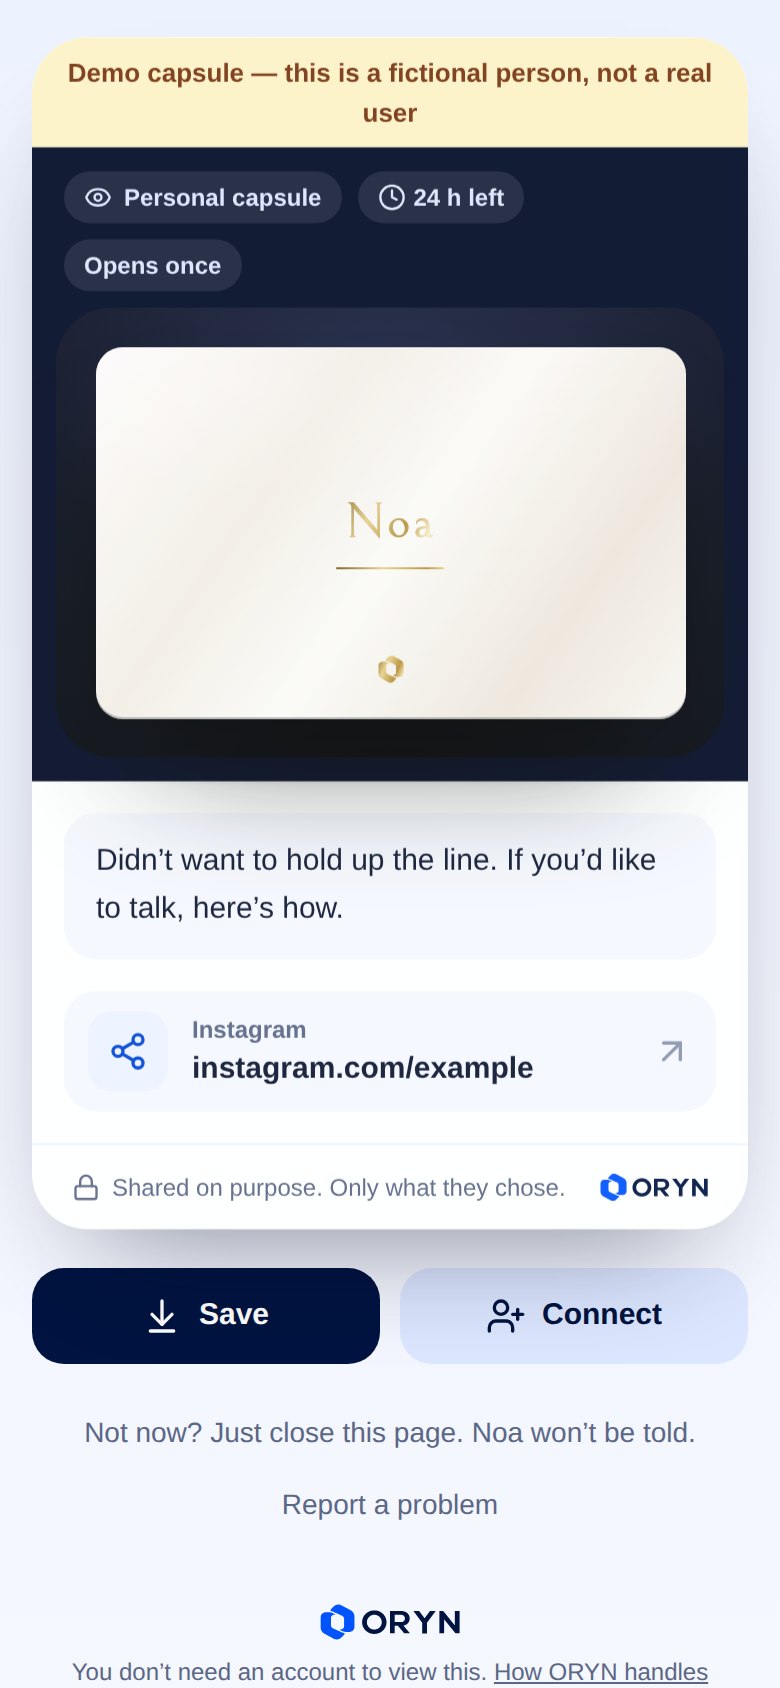
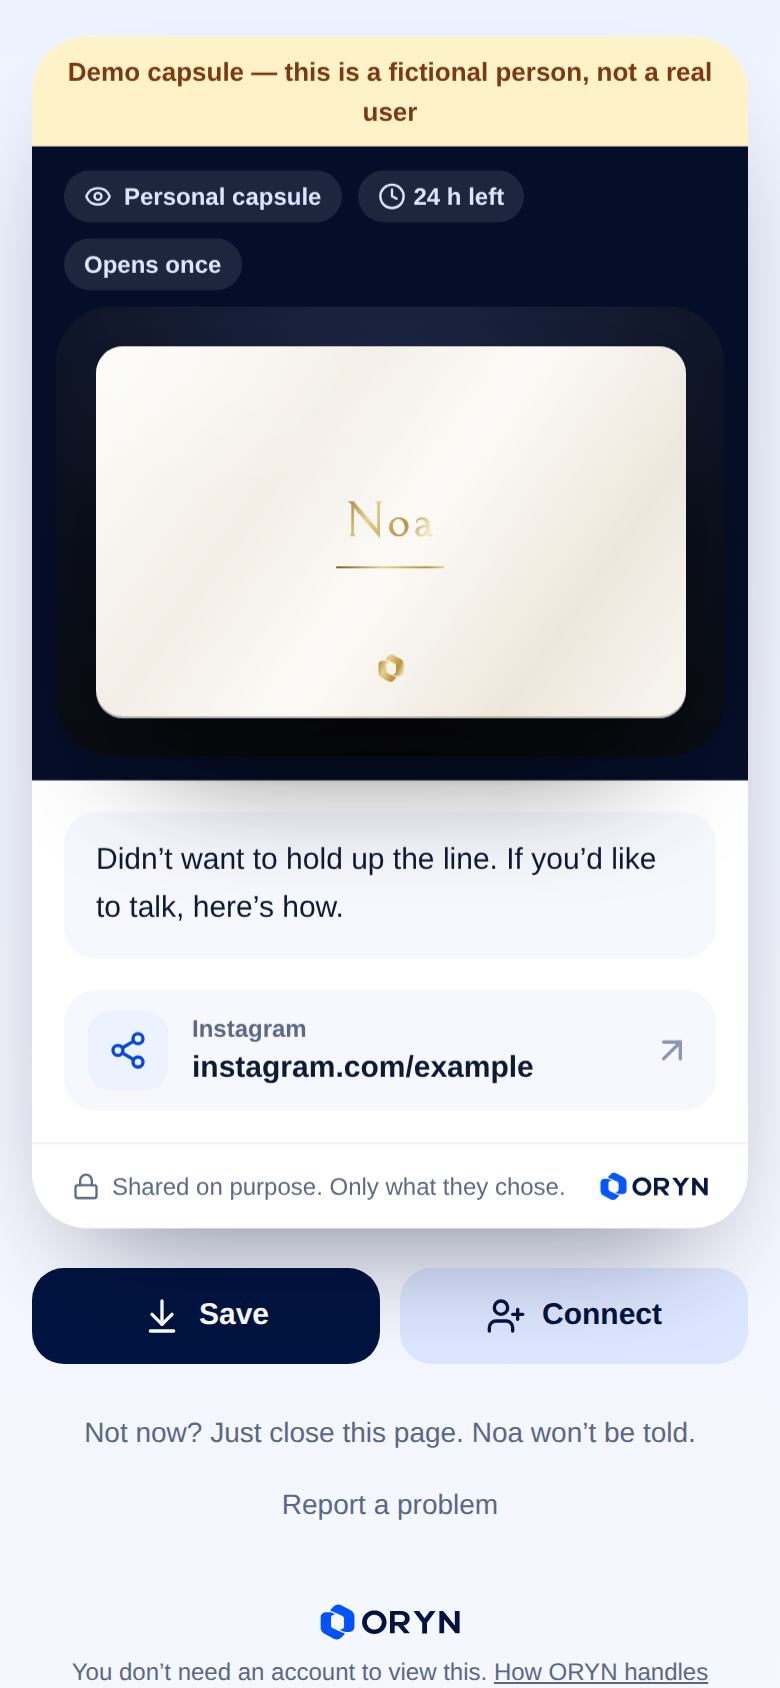
App entry screen: welcome, sign-in and sign-up on a dark stage with a fan of luxury cards
- /welcome is the installed app's start screen (manifest start_url); signed-in people go to Today
- sign-in and sign-up share the same shell with a bottom sheet for the form
- pure CSS motion (deal-in, float, glow), off under reduced motion; sample cards use fictional names
- E2E: welcome routes, no horizontal overflow, start_url (23/23)

Claude-Session: https://claude.ai/code/session_01TnBwNdb6CVCdpsNi2rZgTz

diff --git a/app/globals.css b/app/globals.css
@@ -86,3 +86,23 @@
 }
 @keyframes lc-shimmer { 0%, 100% { background-position: 10% 0 } 50% { background-position: 90% 0 } }
 @media (prefers-reduced-motion: reduce) { .lc-foil { animation: none !important; } .lc-tilt, .lc-flipper { transition: none; } }
+
+/* ── Entry screen (welcome / sign in / sign up) ─────────────────────────────── */
+.entry-stage { background: radial-gradient(120% 80% at 50% 0%, #0b1f5c 0%, #020a24 55%, #01040f 100%); }
+.entry-glow { position: absolute; inset: -20% -20% auto; height: 70%; background: radial-gradient(50% 50% at 50% 50%, rgba(216,181,106,0.22), transparent 70%); filter: blur(10px); animation: entry-breathe 6s ease-in-out infinite; }
+.entry-logo { animation: entry-in .9s cubic-bezier(.2,.8,.2,1) both; }
+.entry-fan { position: absolute; left: 50%; top: 50%; width: min(60vw, 280px); aspect-ratio: 1.586; transform: translate(-50%, -50%); perspective: 1400px; }
+.entry-fan-compact { width: min(48vw, 210px); }
+.entry-card { position: absolute; inset: 0; transform-origin: 50% 130%;
+  --rot: calc((var(--i) - 1) * 9deg); --dx: calc((var(--i) - 1) * 15%); --dy: calc((var(--i) - 1) * (var(--i) - 1) * 7%);
+  transform: translate(var(--dx), var(--dy)) rotate(var(--rot)); z-index: 1;
+  animation: entry-deal 1.1s cubic-bezier(.2,.8,.2,1) both; animation-delay: calc(0.15s + var(--i) * 0.12s); }
+.entry-card:nth-child(2) { z-index: 3; }
+.entry-card-inner { filter: drop-shadow(0 30px 40px rgba(0,0,0,0.55)); animation: entry-float 7s ease-in-out infinite; animation-delay: calc(var(--i) * -2.3s); }
+.entry-sheet { animation: entry-sheet .7s cubic-bezier(.2,.8,.2,1) .35s both; }
+@keyframes entry-deal { from { opacity: 0; transform: translate(0, 18%) rotate(0deg) scale(.85); } to { opacity: 1; transform: translate(var(--dx), var(--dy)) rotate(var(--rot)); } }
+@keyframes entry-float { 0%, 100% { transform: translateY(0) rotateX(0) rotateY(0); } 50% { transform: translateY(-8px) rotateX(4deg) rotateY(-6deg); } }
+@keyframes entry-breathe { 0%, 100% { opacity: .7; } 50% { opacity: 1; } }
+@keyframes entry-in { from { opacity: 0; transform: translateY(-8px); } to { opacity: 1; transform: none; } }
+@keyframes entry-sheet { from { opacity: 0; transform: translateY(40px); } to { opacity: 1; transform: none; } }
+@media (prefers-reduced-motion: reduce) { .entry-glow, .entry-card, .entry-card-inner, .entry-sheet, .entry-logo { animation: none !important; } }

diff --git a/components/EntryShell.tsx b/components/EntryShell.tsx
@@ -1,0 +1,40 @@
+import type { CSSProperties, ReactNode } from 'react'
+import { CardFace } from './LuxuryCard'
+import { Logo } from './Logo'
+import { DEFAULT_DESIGN, PRESETS, type CardDesign } from '@/lib/card-design'
+
+// Sample cards only: fictional names, never real people.
+const FAN: { preset: string; name: string; headline: string; base?: string }[] = [
+  { preset: 'pearl', name: 'Maya Stone', headline: 'Designer' },
+  { preset: 'black', name: 'Noa Adler', headline: 'Product lead' },
+  { preset: 'navy', name: 'Eli Ward', headline: 'Founder' },
+]
+const design = (id: string): CardDesign => ({ ...DEFAULT_DESIGN, ...PRESETS.find((p) => p.id === id)!.design })
+
+/**
+ * The app's entry screen: a dark stage with a fan of luxury cards drifting in, and a bottom sheet for the
+ * actions — the first thing someone sees when they open the installed app. Pure CSS motion (respects
+ * reduced motion); renders on the server.
+ */
+export function EntryShell({ children, compact = false }: { children: ReactNode; compact?: boolean }) {
+  return (
+    <main id="main" className="entry-stage relative flex min-h-dvh flex-col overflow-hidden text-white">
+      <div aria-hidden="true" className="entry-glow" />
+      <header className="relative z-10 flex justify-center pt-[max(env(safe-area-inset-top),1.25rem)]">
+        <span className="entry-logo"><Logo tone="white" height={compact ? 24 : 30} /></span>
+      </header>
+      <div aria-hidden="true" className={`relative z-0 mx-auto w-full max-w-md flex-1 ${compact ? 'min-h-[180px]' : 'min-h-[300px]'}`}>
+        <div className={`entry-fan ${compact ? 'entry-fan-compact' : ''}`}>
+          {FAN.map((c, i) => (
+            <div key={c.preset} className="entry-card" style={{ '--i': i } as CSSProperties}>
+              <div className="entry-card-inner"><CardFace design={design(c.preset)} identity={{ displayName: c.name, headline: c.headline, company: null, avatarUrl: null }} /></div>
+            </div>
+          ))}
+        </div>
+      </div>
+      <section className="entry-sheet relative z-10 mx-auto w-full max-w-md rounded-t-[2rem] bg-white px-5 pb-[max(env(safe-area-inset-bottom),1.5rem)] pt-6 text-ink shadow-[0_-20px_60px_-20px_rgba(0,0,0,0.6)] sm:mb-8 sm:rounded-[2rem]">
+        {children}
+      </section>
+    </main>
+  )
+}

diff --git a/app/signin/page.tsx b/app/signin/page.tsx
@@ -3,7 +3,7 @@ import { redirect } from 'next/navigation'
 import { currentUser } from '@/lib/server/request'
 import { signInAction } from '@/app/actions/auth'
 import { ActionForm, Submit } from '@/components/Forms'
-import { Logo } from '@/components/Logo'
+import { EntryShell } from '@/components/EntryShell'
 
 export const metadata = { title: 'Sign in' }
 
@@ -12,9 +12,8 @@ export default async function SignIn({ searchParams }: { searchParams: Promise<{
   if (await currentUser()) redirect('/today')
   const demo = process.env.NODE_ENV !== 'production' || process.env.ORYN_SEED_DEMO === 'true'
   return (
-    <main id="main" className="mx-auto flex min-h-dvh max-w-sm flex-col justify-center px-4 py-10">
-      <Link href="/" className="mb-8"><Logo /></Link>
-      <h1 className="h1">Welcome back</h1>
+    <EntryShell compact>
+      <h1 className="text-2xl font-bold text-navy-900">Welcome back</h1>
       <ActionForm action={signInAction} className="mt-6 space-y-4">
         <input type="hidden" name="next" value={next} />
         <div><label className="label" htmlFor="email">Email</label><input dir="auto" id="email" name="email" type="email" autoComplete="email" className="input" required /></div>
@@ -23,6 +22,6 @@ export default async function SignIn({ searchParams }: { searchParams: Promise<{
       </ActionForm>
       <p className="mt-6 text-center text-[15px]">New to ORYN? <Link href={`/signup${next ? `?next=${encodeURIComponent(next)}` : ''}`} className="font-semibold text-electric-600">Create an account</Link></p>
       {demo && <p className="mt-8 rounded-2xl bg-soft-100 px-4 py-3 text-sm text-navy-900" data-testid="demo-credentials">Local demo (fictional data): <code>demo@oryn.local</code>. The password is <code>ORYN_DEMO_PASSWORD</code>, or the one printed in the server console on first start.</p>}
-    </main>
+    </EntryShell>
   )
 }

diff --git a/app/signup/page.tsx b/app/signup/page.tsx
@@ -3,7 +3,7 @@ import { redirect } from 'next/navigation'
 import { currentUser } from '@/lib/server/request'
 import { signUpAction } from '@/app/actions/auth'
 import { ActionForm, Submit } from '@/components/Forms'
-import { Logo } from '@/components/Logo'
+import { EntryShell } from '@/components/EntryShell'
 
 export const metadata = { title: 'Create your account' }
 
@@ -11,9 +11,8 @@ export default async function SignUp({ searchParams }: { searchParams: Promise<{
   const { next = '' } = await searchParams
   if (await currentUser()) redirect(next.startsWith('/') && !next.startsWith('//') ? next : '/today')
   return (
-    <main id="main" className="mx-auto flex min-h-dvh max-w-sm flex-col justify-center px-4 py-10">
-      <Link href="/" className="mb-8"><Logo /></Link>
-      <h1 className="h1">Create your account</h1>
+    <EntryShell compact>
+      <h1 className="text-2xl font-bold text-navy-900">Create your account</h1>
       <p className="mt-1 text-ink-muted">Three things. Then your first capsule.</p>
       <ActionForm action={signUpAction} className="mt-6 space-y-4">
         <input type="hidden" name="next" value={next} />
@@ -24,6 +23,6 @@ export default async function SignUp({ searchParams }: { searchParams: Promise<{
       </ActionForm>
       <p className="mt-4 text-center text-xs text-ink-muted">By continuing you agree to the Terms and <Link href="/privacy" className="underline">Privacy notice</Link> (drafts pending legal review).</p>
       <p className="mt-6 text-center text-[15px]">Have an account? <Link href={`/signin${next ? `?next=${encodeURIComponent(next)}` : ''}`} className="font-semibold text-electric-600">Sign in</Link></p>
-    </main>
+    </EntryShell>
   )
 }

diff --git a/app/welcome/page.tsx b/app/welcome/page.tsx
@@ -1,0 +1,22 @@
+import Link from 'next/link'
+import { redirect } from 'next/navigation'
+import { currentUser } from '@/lib/server/request'
+import { EntryShell } from '@/components/EntryShell'
+
+export const metadata = { title: 'Welcome' }
+
+/** Start screen of the installed app (manifest start_url). Signed-in people go straight to Today. */
+export default async function Welcome() {
+  if (await currentUser()) redirect('/today')
+  return (
+    <EntryShell>
+      <h1 className="text-center text-[28px] font-bold leading-tight tracking-tight text-navy-900">Your card. Your rules.</h1>
+      <p className="mx-auto mt-2 max-w-xs text-center text-[15px] text-ink-muted">Design a card that’s only yours. Share it in a second. See who’s interested.</p>
+      <div className="mt-6 space-y-3">
+        <Link href="/signup" className="btn-share w-full" data-testid="welcome-create">Create my card</Link>
+        <Link href="/signin" className="btn-more w-full" data-testid="welcome-signin">I have an account</Link>
+      </div>
+      <p className="mt-4 text-center text-xs text-ink-muted">People you share with never need the app. <Link href="/privacy" className="underline">Privacy</Link></p>
+    </EntryShell>
+  )
+}

diff --git a/tests/e2e/demo.spec.ts b/tests/e2e/demo.spec.ts
@@ -258,3 +258,20 @@ test('who viewed you: a signed-in member is told, and the Pro owner sees their p
   await expect(v.page.getByTestId('viewer-notice')).toContainText('viewing privately')
   await v.ctx.close()
 })
+
+test('entry screen: installed app opens on a welcome screen that leads to sign-up and sign-in', async ({ page }) => {
+  await page.goto('/welcome')
+  await expect(page.getByRole('heading', { name: 'Your card. Your rules.' })).toBeVisible()
+  const overflow = await page.evaluate(() => document.documentElement.scrollWidth - window.innerWidth)
+  expect(overflow).toBeLessThanOrEqual(0)
+  await page.getByTestId('welcome-create').click()
+  await expect(page).toHaveURL(/\/signup/)
+  await page.goto('/welcome')
+  await page.getByTestId('welcome-signin').click()
+  await expect(page).toHaveURL(/\/signin/)
+  const manifest = await (await page.request.get('/manifest.webmanifest')).json()
+  expect(manifest.start_url).toBe('/welcome')
+  await signInDemo(page)
+  await page.goto('/welcome')
+  await expect(page).toHaveURL(/\/today/)
+})

diff --git a/docs/BUILD_STATUS.md b/docs/BUILD_STATUS.md
@@ -85,7 +85,7 @@ Also built: Teams (workspace, members, roles, teams, org audit log), Insights, F
 
 ## E2E results
 
-21 of 21 passed (adds "who viewed you" on phone and desktop). Earlier: 19 of 19 passed (Chromium: Pixel 7 phone, 1360×900 desktop, and an iPhone-size QA suite), against a production build. Full QA results: [MVP_QA_REPORT](MVP_QA_REPORT.md).
+23 of 23 passed (adds "who viewed you" and the app entry screen on phone and desktop). Earlier: 19 of 19 passed (Chromium: Pixel 7 phone, 1360×900 desktop, and an iPhone-size QA suite), against a production build. Full QA results: [MVP_QA_REPORT](MVP_QA_REPORT.md).
 
 | Test | Result |
 |---|---|
